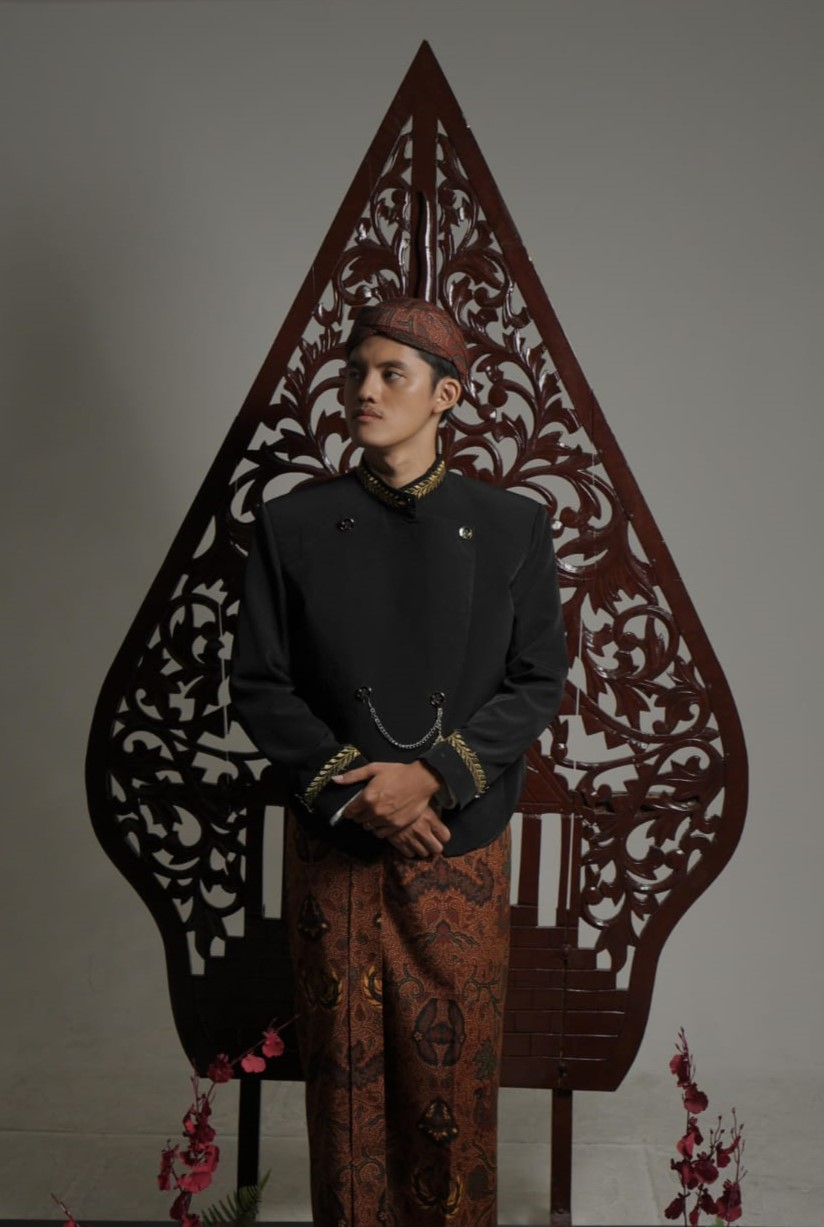
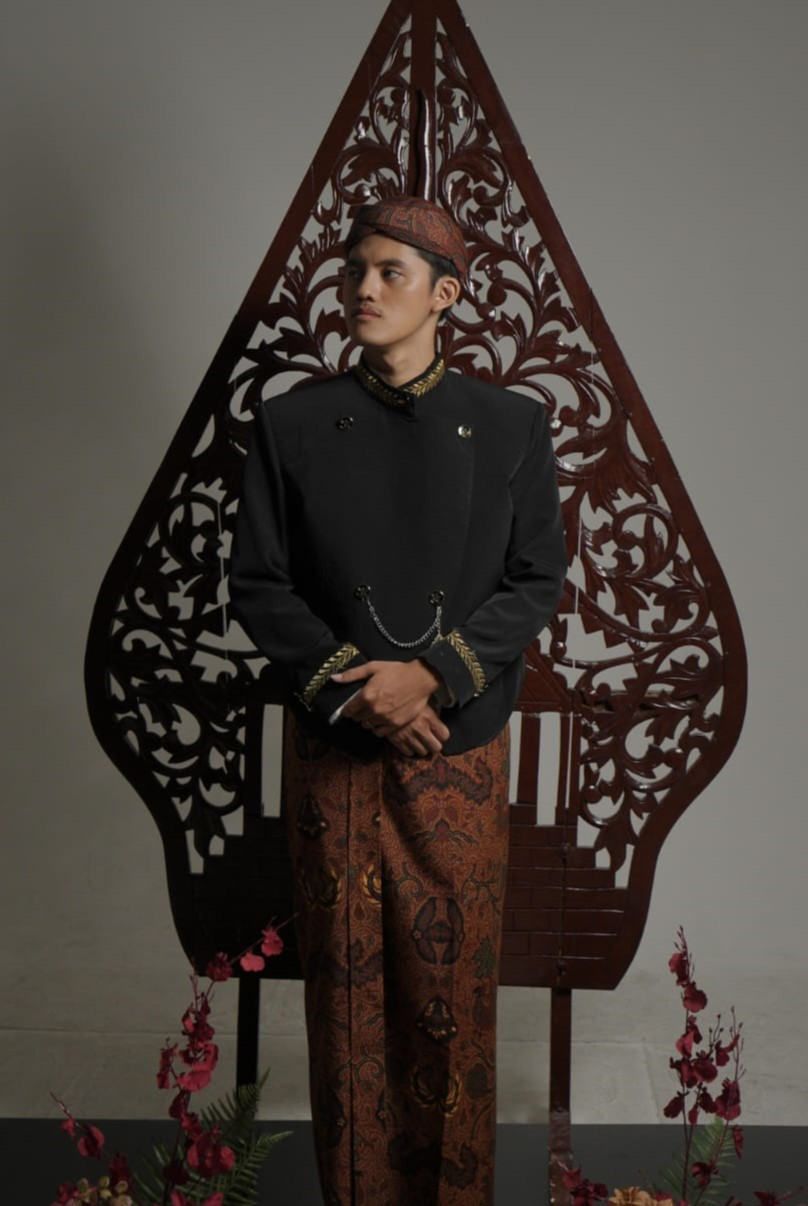
feat img

diff --git a/wedding/index.html b/wedding/index.html
@@ -558,14 +558,14 @@
     position: absolute;
     inset: 0;
     z-index: 0;
-    background: url('components/film-roll-loop/photos/slide-3.jpeg') center/cover no-repeat;
+    background: url('components/film-roll-loop/photos/slide-3-old.jpeg') center/cover no-repeat;
   }
 
   .mempelai-wanita-photo {
     position: absolute;
     inset: 0;
     z-index: 0;
-    background: url('components/film-roll-loop/photos/slide-4.jpeg') center/cover no-repeat;
+    background: url('components/film-roll-loop/photos/slide-4-old.jpeg') center/cover no-repeat;
   }
 
   .mempelai-pria-photo::after,
@@ -583,6 +583,13 @@
     .slide-mempelai-pria .card,
     .slide-mempelai-wanita .card {
       padding: 1.5rem 1.25rem;
+    }
+
+    /* mobile: zoom in & geser foto ke atas supaya wajah tidak terlalu besar/terpotong */
+    .mempelai-pria-photo,
+    .mempelai-wanita-photo {
+      background-size: 260%;
+      background-position: center 15%;
     }
   }
 
@@ -650,6 +657,7 @@
       width: 50%;
       align-self: stretch;
       flex-shrink: 0;
+      background-position: center 20%;
     }
 
     .mempelai-pria-photo::after,
@@ -903,7 +911,7 @@
     color: #ffffff;
     //font-family: 'Source Serif Pro', Georgia, serif;
     font-family: 'Dream Avenue', Georgia, serif;
-    font-size: 1.15rem;
+    font-size: 1.0rem;
     letter-spacing: 0.15em;
     text-transform: uppercase;
     opacity: 0;
@@ -1021,7 +1029,7 @@
   }
 
   .cal-cell--active .cal-day {
-    font-size: clamp(2.8rem, 10vw, 4.5rem);
+    font-size: clamp(3.4rem, 13vw, 5.5rem);
     color: #B8B09B;
     padding: 0 0.1em;
   }
@@ -1399,8 +1407,6 @@
   <section class="slide slide-tanggal" id="slide-3">
     <div class="tanggal-photo" aria-hidden="true"></div>
     <div class="card">
-      <p class="label" style="font-size:1.25rem;">Catat dan simpan tanggal</p>
-
       <div class="cal-month" style="font-size:1.15rem;">Agustus 2026</div>
       <div class="cal-strip" id="calStrip" aria-hidden="true">
         <div class="cal-cell" data-target-day="27" data-target-name="Kamis"><span class="cal-dayname">Kamis</span><span class="cal-day">27</span></div>
@@ -1603,6 +1609,7 @@
     "components/film-roll-loop/photos/6.jpg",
     "components/film-roll-loop/photos/7.jpeg",
     "components/film-roll-loop/photos/10.png",
+    "components/film-roll-loop/photos/11.jpg",
   ];
 
   const SECS_PER_FRAME = 16;
